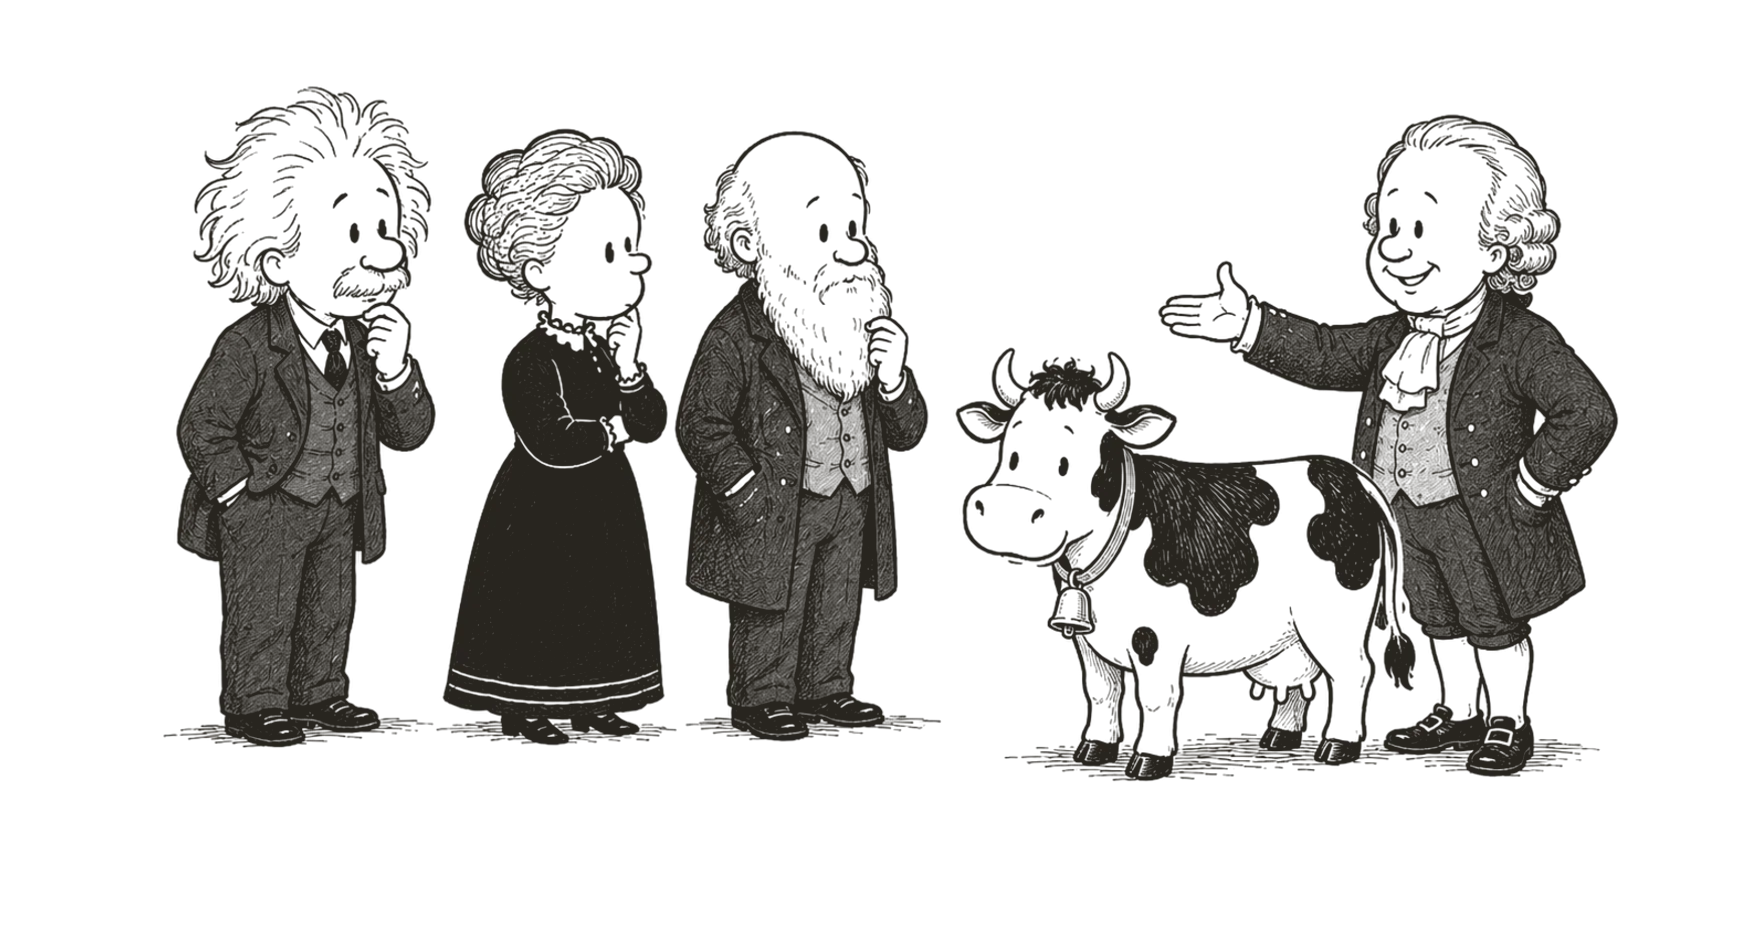
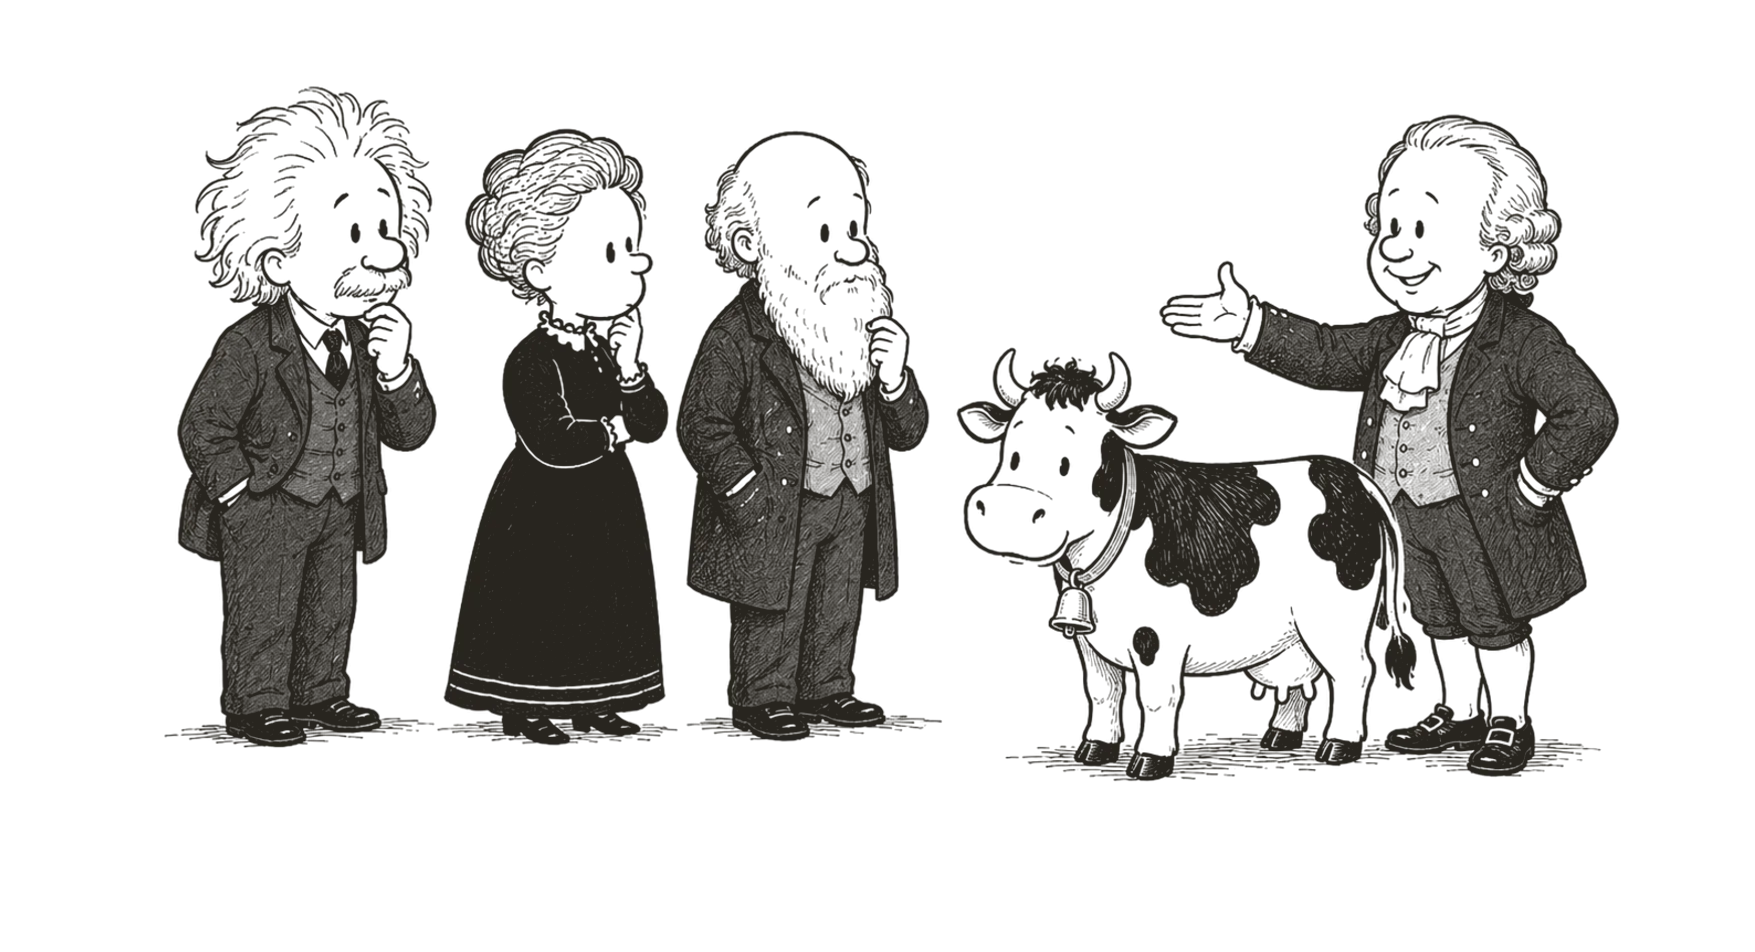
The silence gets four panels
The owner drew the pause. Three experts have answered, the farmer still has no
milk, and for four beats nothing happens: everyone waits on Albert, the cow
turns and looks at US, the cow answers, and only then does Albert start to
think. Same shot every time, so each cut is a panel switch and the cast never
moves.

This REPLACES the empty stage that used to carry the silence. That was a
deliberate choice — "the empty stage is the joke" — and the plates are the
better version of the same joke: it now has a straight face instead of no
face. The three lines move from `STAGE_TEXT` (which is for beats that carry no
picture) to ordinary captions under the art, and `beats.test.ts` already
enforced that split, so the move was not optional.

`scratch` is a beat with no words at all. The picture is the beat.

Plates are renumbered so filename order is story order again: the four new ones
take 03-06 and the physicist, sphere, vacuum and pitch move up to 07-10. The
pipeline recomputes its shared crop box across all ten studio frames, so every
plate — old and new — is cut to one box and the cast holds its size across
every cut.

Verified: sixteen beats walked with the space key, exactly one plate and the
right caption on each; 80 scroll positions forward AND in reverse, never two
plates visible at once; 175 tests; build carries the same three pre-existing
warnings.

Weight: the cast is now 3.4MB of WebP, up from 2.3MB. Flagged, not acted on.

diff --git a/src/lib/widgets/stage/scenes/CowCastScene.svelte b/src/lib/widgets/stage/scenes/CowCastScene.svelte
@@ -4,10 +4,14 @@
   import introduction from './cast/00-introduction.webp';
   import darwin from './cast/01-darwin.webp';
   import chemist from './cast/02-chemist.webp';
-  import physicist from './cast/03-physicist.webp';
-  import spherical from './cast/04-spherical.webp';
-  import vacuum from './cast/05-vacuum.webp';
-  import football from './cast/06-football.webp';
+  import silence from './cast/03-silence.webp';
+  import cowLooks from './cast/04-cow-looks.webp';
+  import cowMoos from './cast/05-cow-moos.webp';
+  import scratch from './cast/06-scratch.webp';
+  import physicist from './cast/07-physicist.webp';
+  import spherical from './cast/08-spherical.webp';
+  import vacuum from './cast/09-vacuum.webp';
+  import football from './cast/10-football.webp';
 
   const BEAT_LENGTHS: readonly BeatSpec[] = [
     // The bridge from the title, then the fable opens on words alone — no
@@ -25,12 +29,16 @@
     { label: 'call', length: 1.0 },
     { label: 'darwin', length: 1.1 },
     { label: 'chemist', length: 1.1 },
-    // Then the picture LEAVES and three lines take its place, one per scroll.
-    // Three experts have answered and the farmer still has no milk; the empty
-    // stage is the joke, so nothing is drawn here on purpose.
-    { label: 'silence-1', length: 0.7 },
-    { label: 'silence-2', length: 0.7 },
-    { label: 'silence-3', length: 0.9 },
+    // The silence, in four panels (owner's plates, 2026-08-27). It used to be
+    // an empty stage on purpose; it is now the same shot held while nothing
+    // happens, which is the same joke with a straight face — everyone waits,
+    // the cow turns and looks at US, the cow answers, and only then does
+    // Albert start to think. `scratch` carries no words: the picture is the
+    // beat.
+    { label: 'silence-1', length: 0.9 },
+    { label: 'silence-2', length: 0.9 },
+    { label: 'silence-3', length: 1.0 },
+    { label: 'scratch', length: 1.0 },
     { label: 'physicist', length: 1.2 },
     { label: 'sphere', length: 1.2 },
     { label: 'vacuum', length: 1.0 },
@@ -88,9 +96,6 @@
     { text: 'is it fair or not?', beat: 'question', until: 'show' },
     { text: 'Is it helpful or harmful?', beat: 'question', until: 'show' },
     { text: 'Let me show you what I mean by that.', beat: 'show', until: 'once-upon' },
-    { text: 'Then silence,', beat: 'silence-1', until: 'physicist' },
-    { text: 'More silence,', beat: 'silence-2', until: 'physicist' },
-    { text: 'Even more silence.', beat: 'silence-3', until: 'physicist' },
     // Three lines, one card: they arrive in order inside the one beat rather
     // than costing three scroll steps, because it is one sentence of thought.
     { text: 'The spherical cow is a model.', beat: 'model', until: 'football' },
@@ -151,7 +156,7 @@
    * an individual frame. Adding a plate means adding a row here and a row in
    * BEATS, nothing else.
    *
-   * 00-05 share a single crop and 06 is cut to the same aspect (see
+   * 00-09 share a single crop and the pitch is cut to the same aspect (see
    * art/cast-scene/process.sh), so the cast holds its size across every switch.
    *
    * The final beat ('moral') deliberately has no plate of its own: it holds the
@@ -160,7 +165,11 @@
   export const FRAMES: readonly CastFrame[] = [
     { src: introduction, beat: 'once' },
     { src: darwin, beat: 'darwin' },
-    { src: chemist, beat: 'chemist', until: 'silence-1' },
+    { src: chemist, beat: 'chemist' },
+    { src: silence, beat: 'silence-1' },
+    { src: cowLooks, beat: 'silence-2' },
+    { src: cowMoos, beat: 'silence-3' },
+    { src: scratch, beat: 'scratch' },
     { src: physicist, beat: 'physicist' },
     { src: spherical, beat: 'sphere' },
     { src: vacuum, beat: 'vacuum', until: 'model' },
